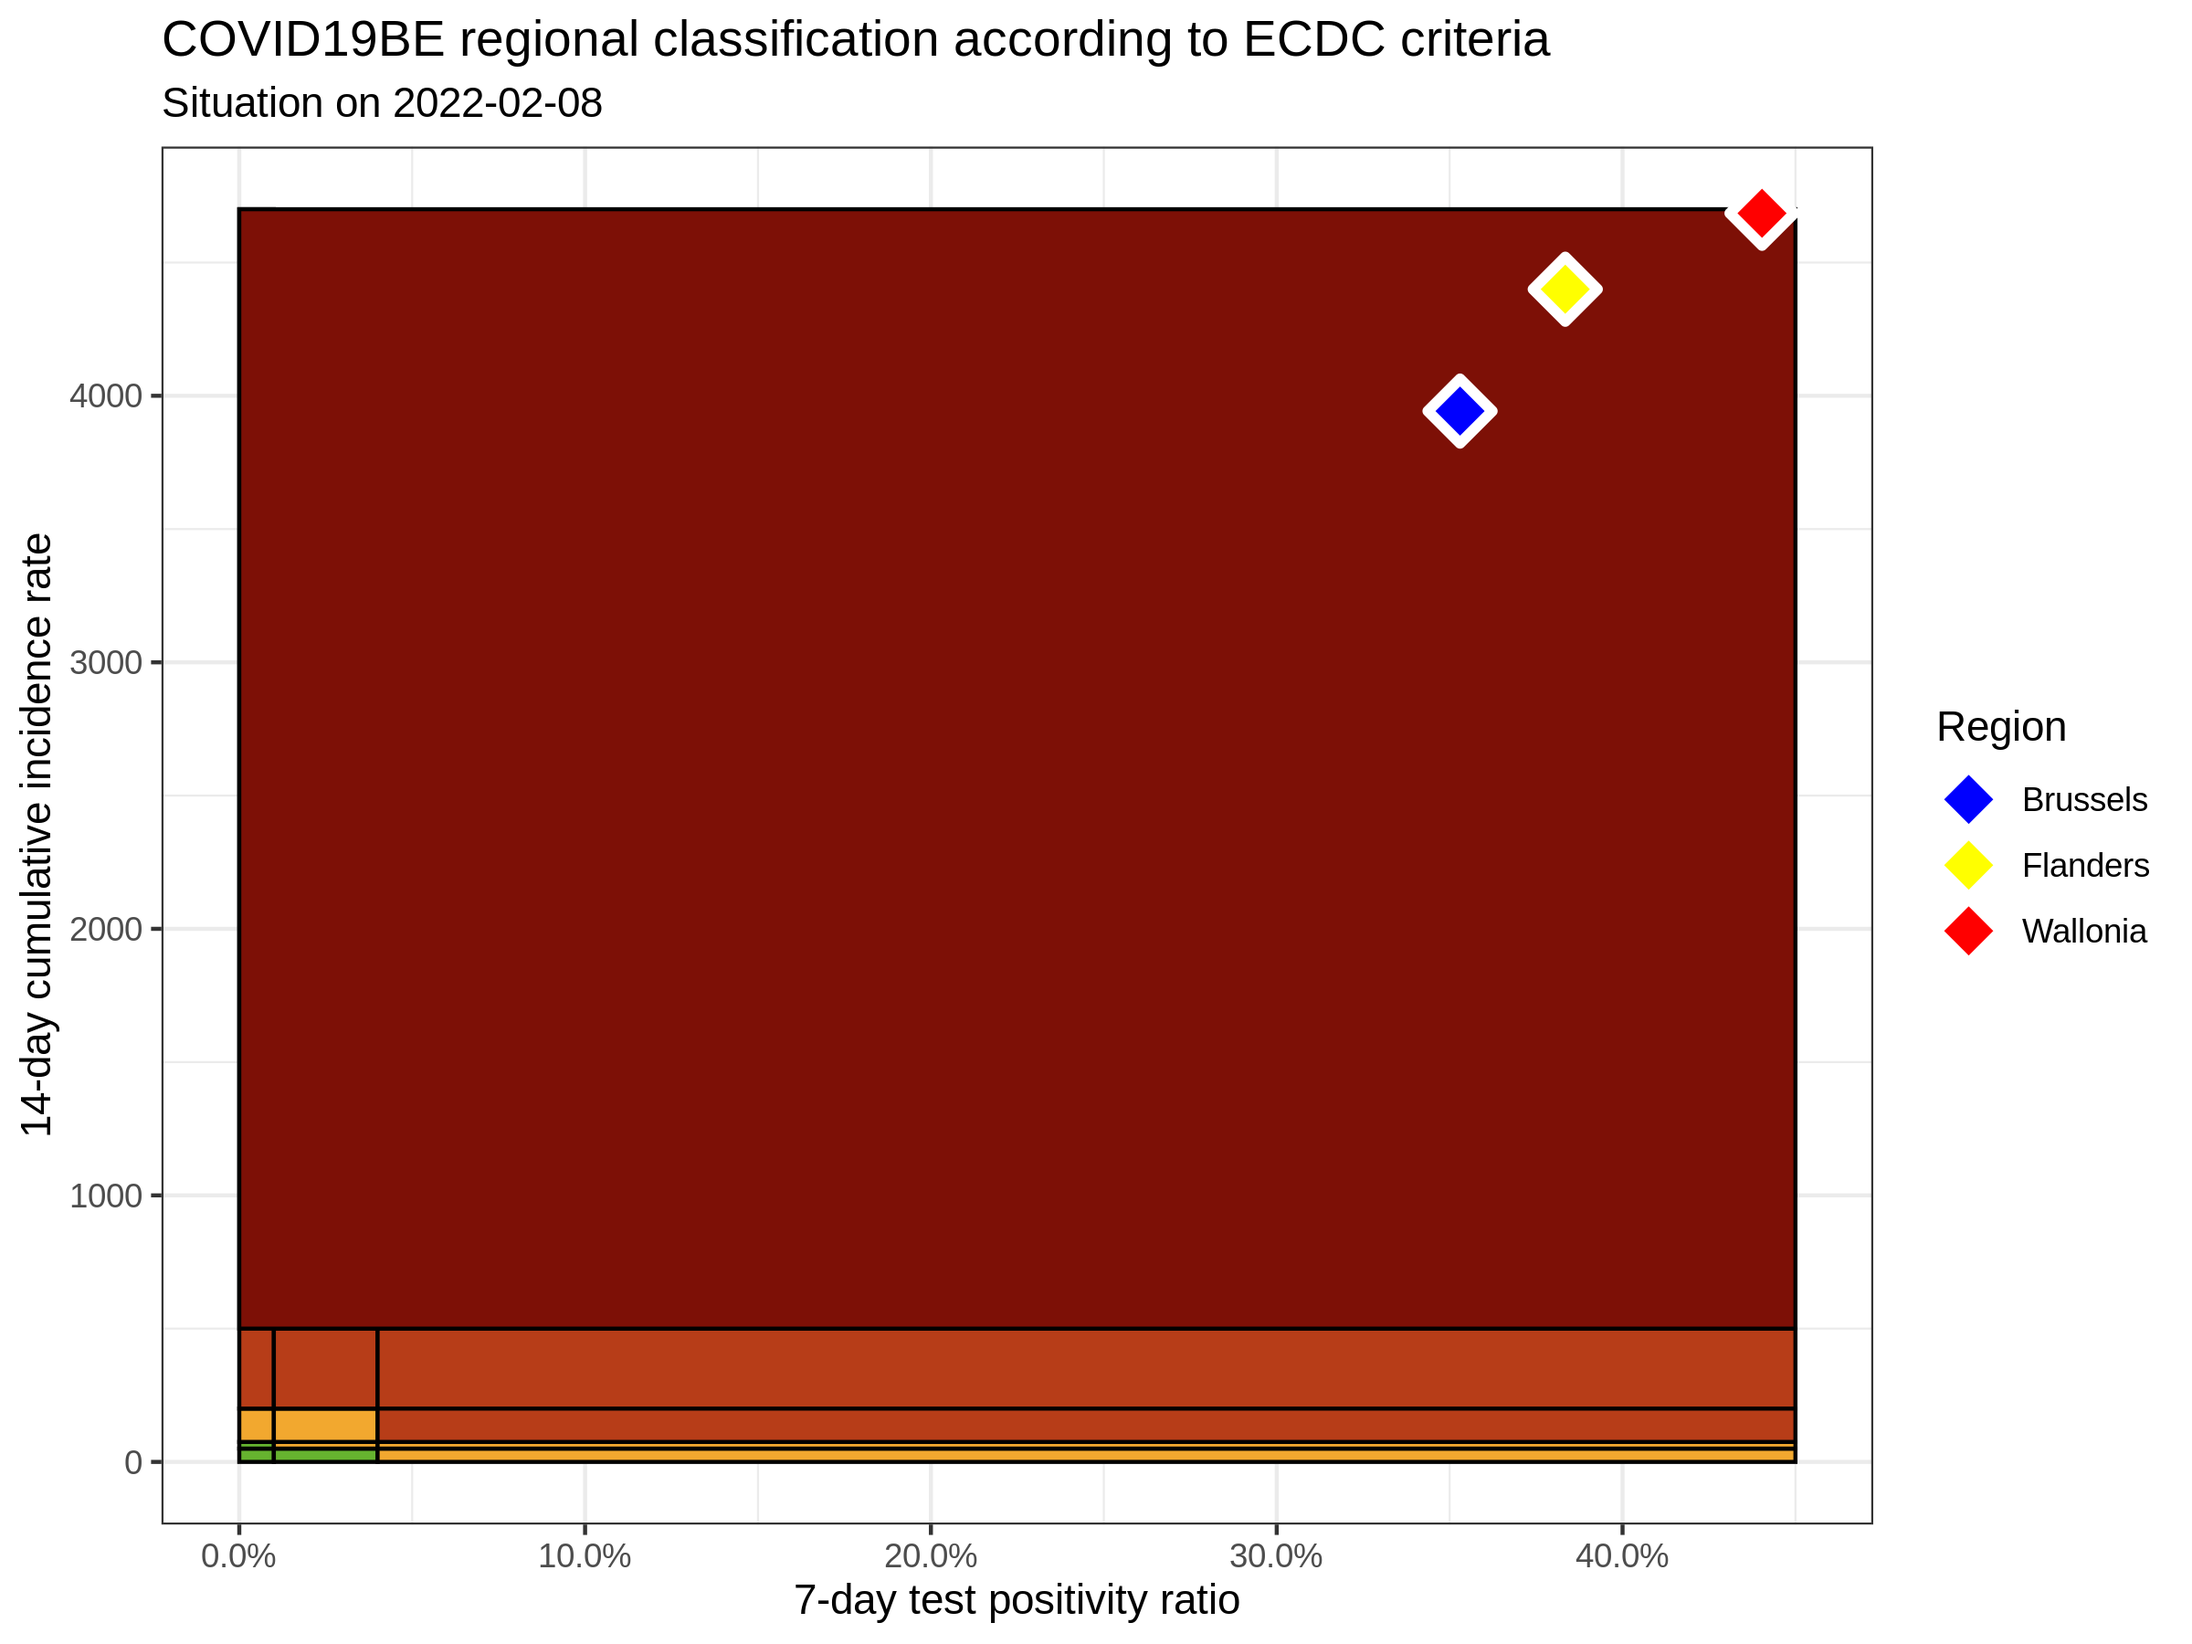
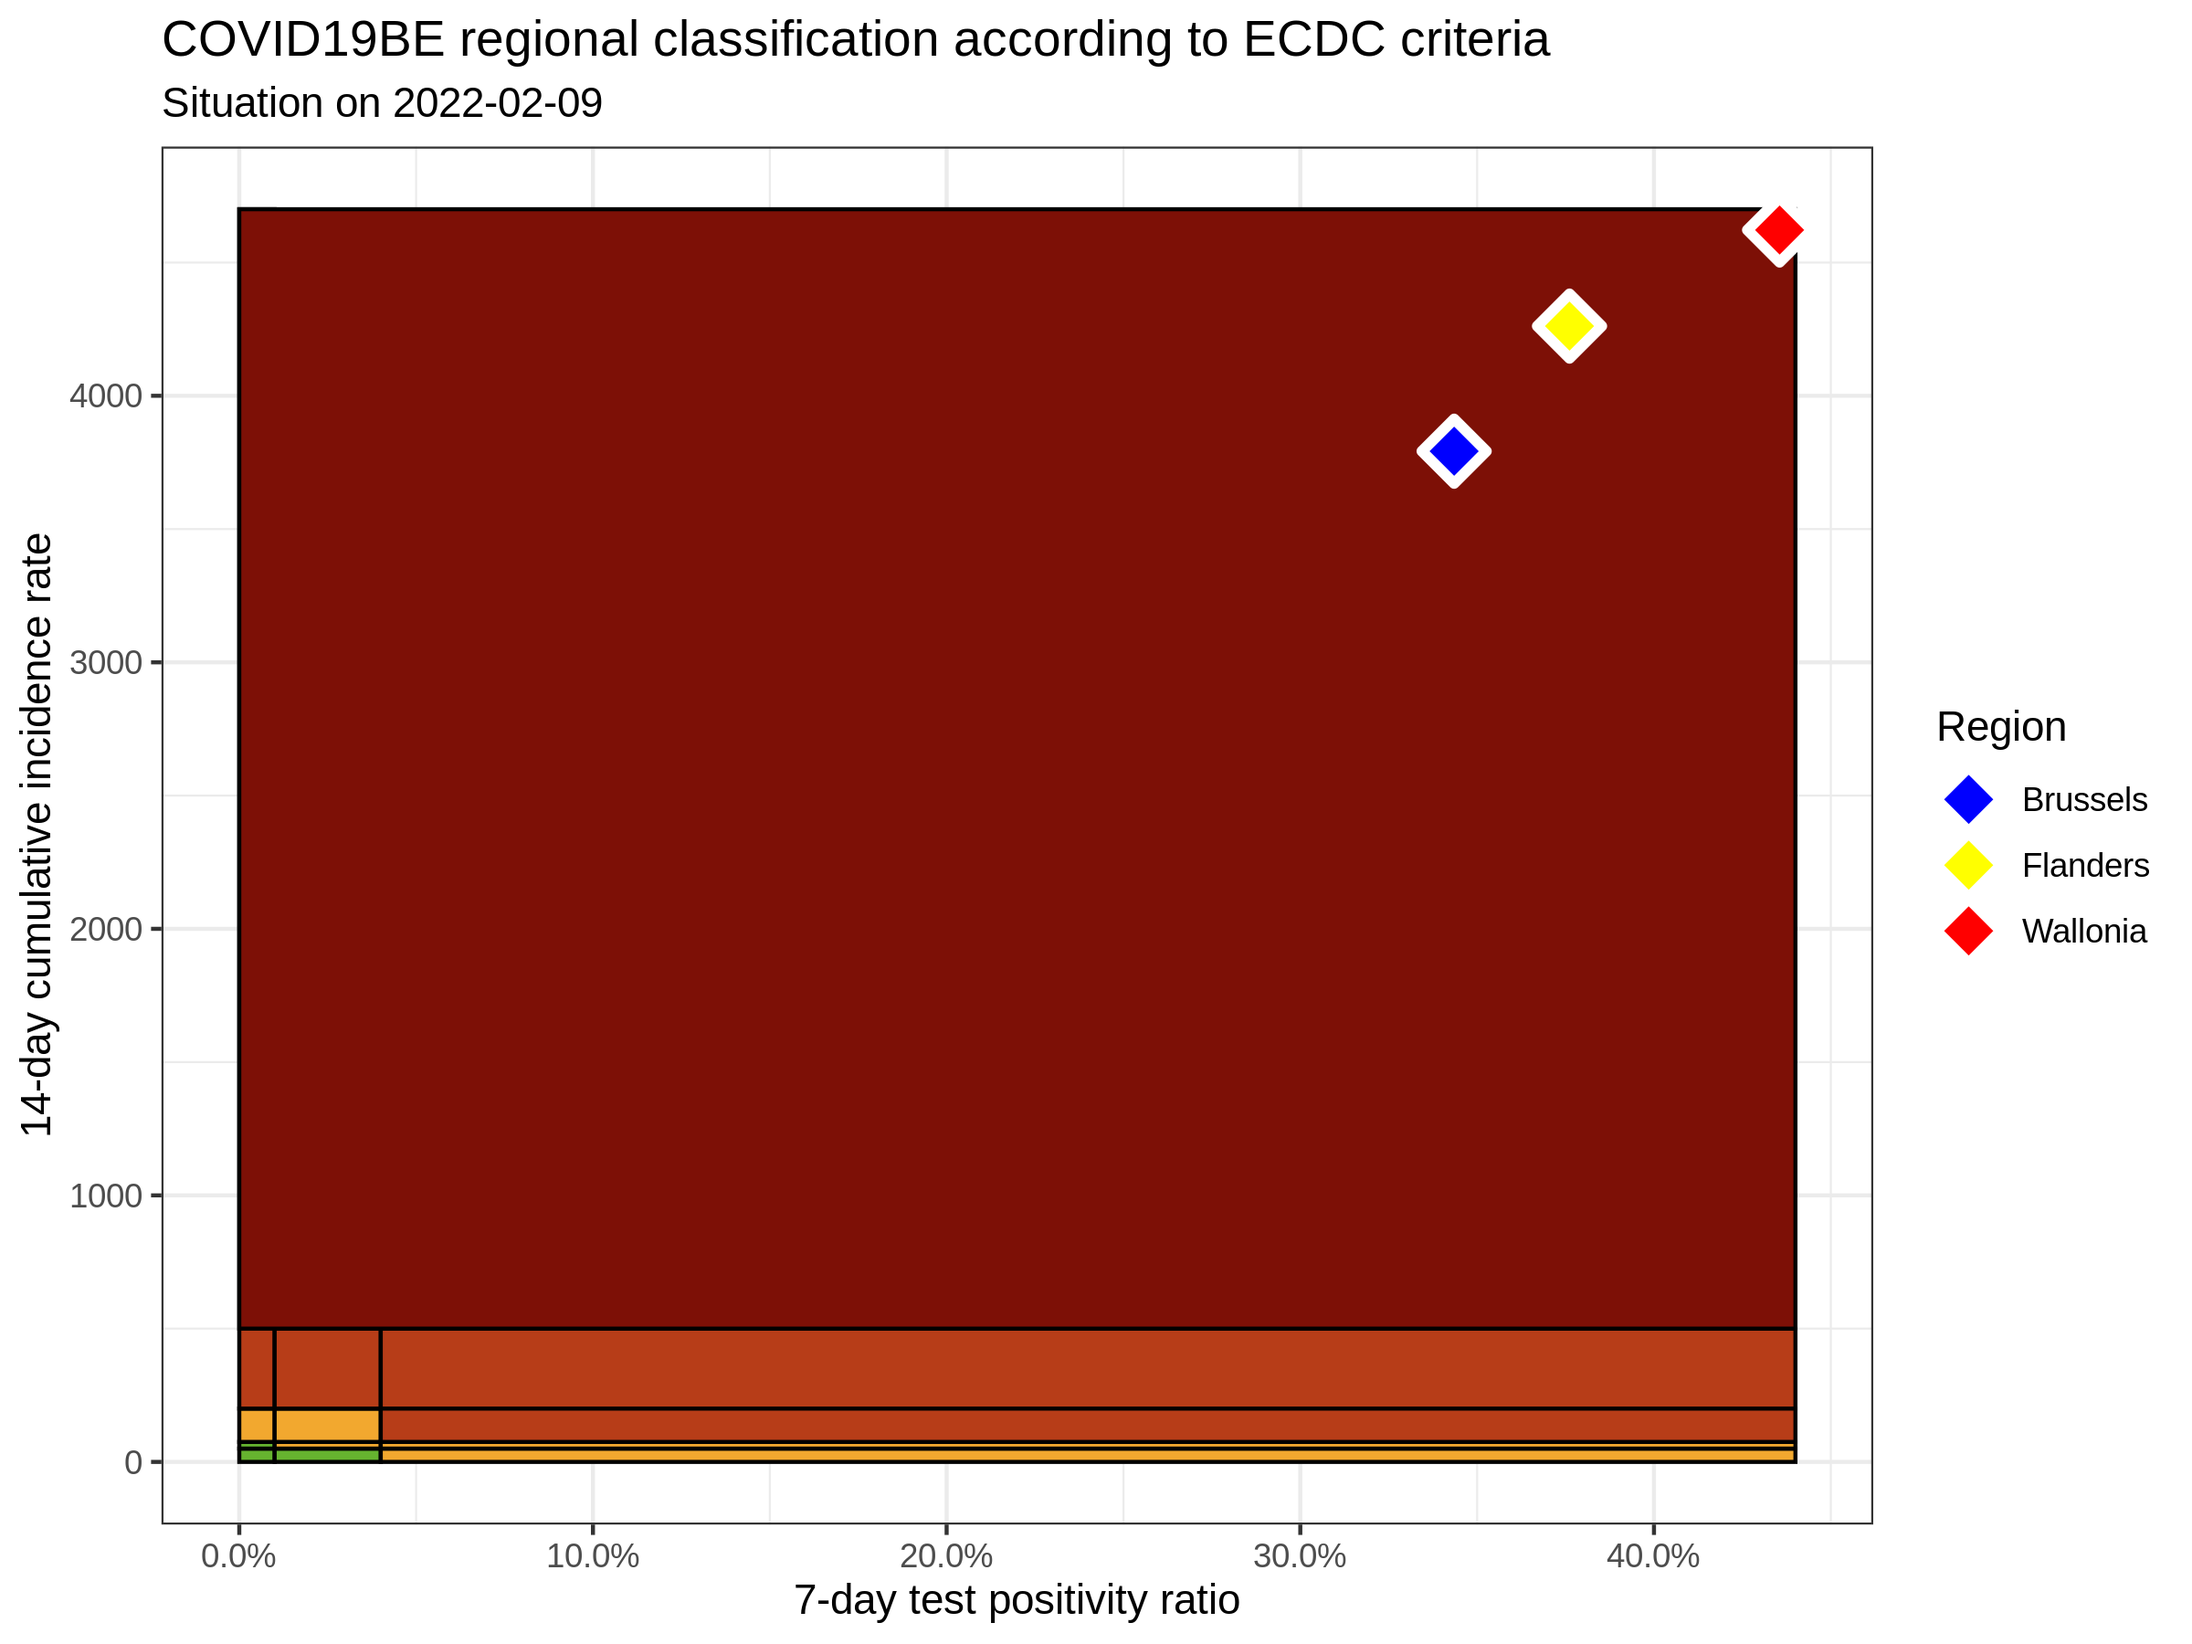
update situation

diff --git a/ecdc-trend/README.md b/ecdc-trend/README.md
@@ -11,9 +11,9 @@
 
 |          |  INC14 |   INC7 |   TST7 | TST\_POS7 | REGION   |     POP | INC14\_RT |       PR7 |          GR |
 | :------- | -----: | -----: | -----: | --------: | :------- | ------: | --------: | --------: | ----------: |
-| Brussels |  48099 |  17061 |  55859 |     19719 | Brussels | 1219970 |  3942.638 | 0.3530138 | \-0.4503190 |
-| Flanders | 292723 | 106725 | 313744 |    120302 | Flanders | 6653062 |  4399.824 | 0.3834400 | \-0.4262035 |
-| Wallonia | 170913 |  65122 | 166377 |     73262 | Wallonia | 3648206 |  4684.851 | 0.4403373 | \-0.3844278 |
+| Brussels |  46262 |  16288 |  54667 |     18778 | Brussels | 1219970 |  3792.060 | 0.3434979 | \-0.4565957 |
+| Flanders | 283520 | 102978 | 304648 |    114584 | Flanders | 6653062 |  4261.496 | 0.3761193 | \-0.4296175 |
+| Wallonia | 168620 |  63793 | 162177 |     70632 | Wallonia | 3648206 |  4621.998 | 0.4355241 | \-0.3914450 |
 
 ### Read more
 
